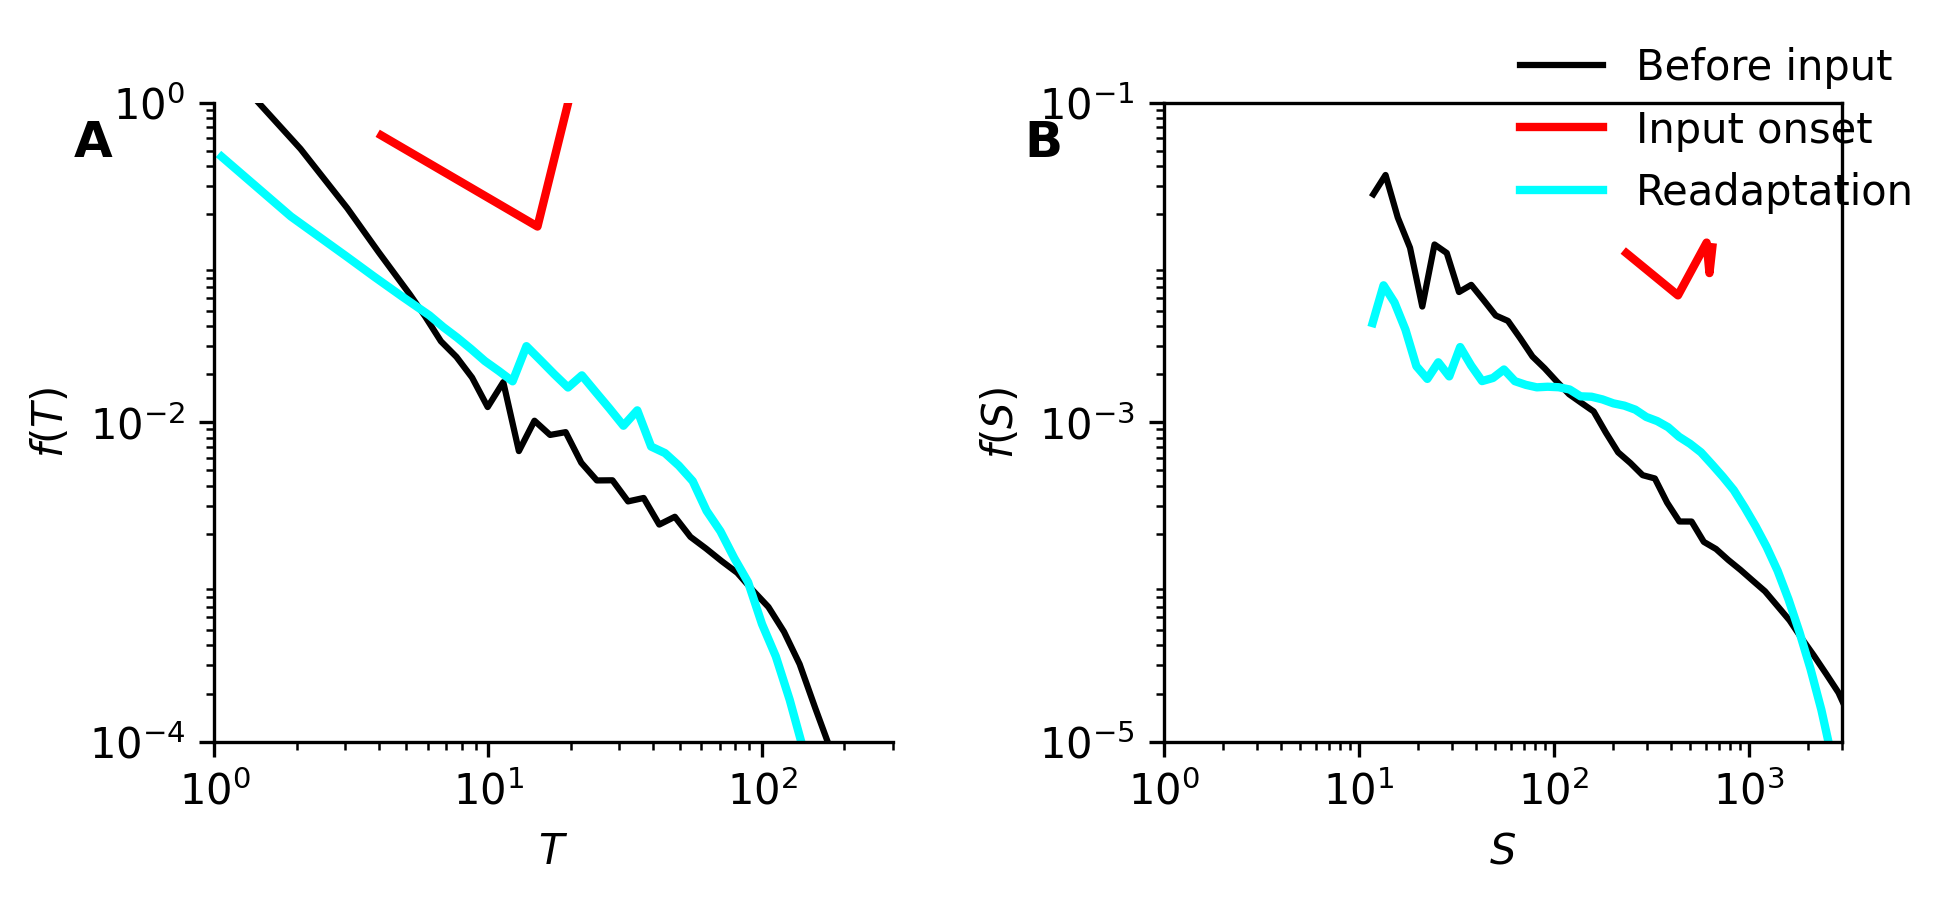
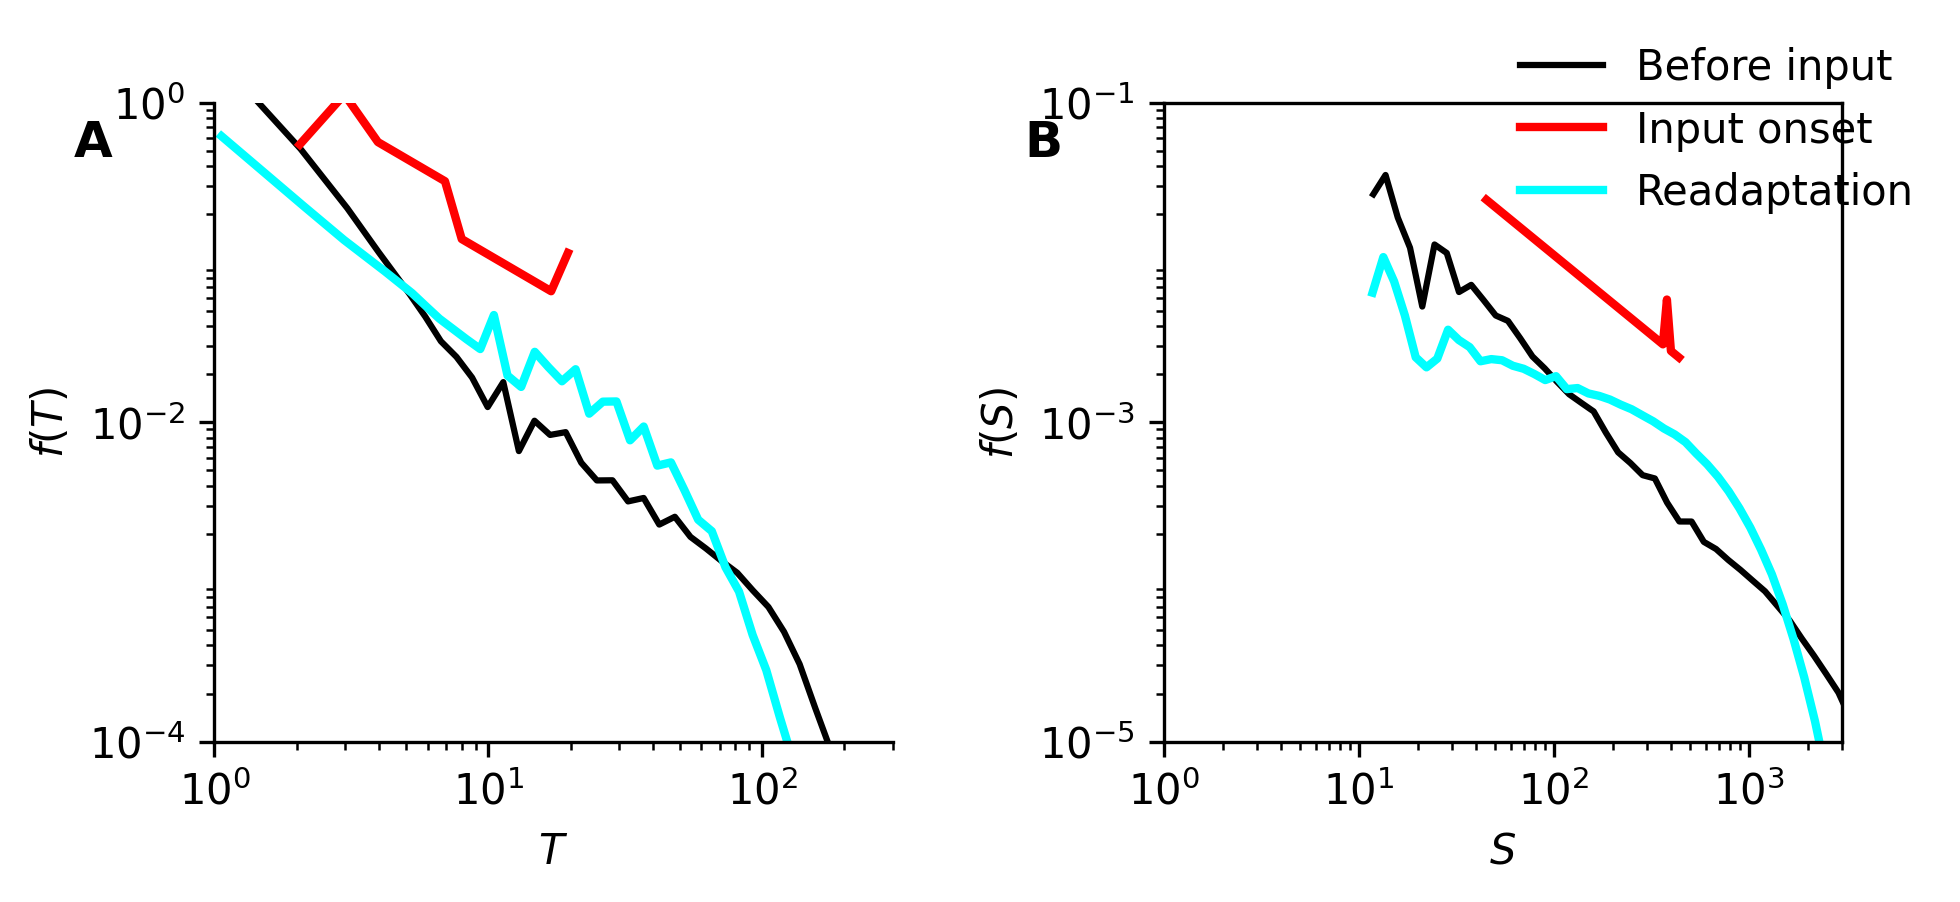
updated extra_input logic

diff --git a/delpapa/experiment_ExtraInputNew.py b/delpapa/experiment_ExtraInputNew.py
@@ -4,7 +4,7 @@ import utils
 utils.backup(__file__)
 
 from delpapa.plot import plot_results as plot_results_single
-from common.sources import NoSource
+from common.sources import CountingSource, NoSource  # Added CountingSource import
 from common.experiments import AbstractExperiment
 from common.sorn_stats import *
 
@@ -13,13 +13,13 @@ class Experiment_test(AbstractExperiment):
     def start(self):
         super(Experiment_test,self).start()
         c = self.params.c
-        # Use NoSource throughout - no external input
-        self.inputsource = NoSource()
+        # Start with NoSource
+        self.inputsource = NoSource(N_i=c.N_u_e)
         
         stats_single = [
             ActivityStat(),
-            SpikesStat(),              # Excitatory spikes
-            SpikesStat(inhibitory=True),  # Inhibitory spikes
+            SpikesStat(),              
+            SpikesStat(inhibitory=True),  # If you want inhibitory spikes
             ConnectionFractionStat(),
         ]
         
@@ -42,29 +42,33 @@ class Experiment_test(AbstractExperiment):
         print '\n\nNormal phase (before perturbation):'
         sorn.simulation(c.steps_noExternalInput)
         
-        print '\n\nPerturbation phase (increased noise):'
+        print '\n\nExternal Input on'
         
-        # Instead of external input, increase internal noise
-        # This is what creates the perturbation for Figure 6
-        old_noise_e = c.noise_sig_e
-        old_noise_i = c.noise_sig_i
+        # external input definition
+        word1 = "A"
+        word2 = "B"
+        word3 = "C"
+        word4 = "D"
+        word5 = "E"
+        word6 = "F"
+        word7 = "G"
+        word8 = "H"
+        word9 = "I"
+        word10 = "J"
+        words = [word1, word2, word3, word4, word5, word6, word7, \
+                word8, word9, word10]
+        # external input random transitions
+        words_len = len(words)  # This was missing!
+        words_trans = np.ones([words_len,words_len])*(1./words_len)
         
-        # Increase noise significantly
-        c.noise_sig_e = np.sqrt(0.2)  # Increased from sqrt(0.05)
-        c.noise_sig_i = np.sqrt(0.2)
-        
-        print("Increased noise levels:")
-        print("  E noise:", c.noise_sig_e)
-        print("  I noise:", c.noise_sig_i)
-        
-        # Run with increased noise
+        newsource = CountingSource(words, words_trans, \
+                                   c.N_u_e, c.N_u_i, avoid=False)
+        sorn.source = newsource
+        sorn.W_eu = newsource.generate_connection_e(c.N_e)
         sorn.simulation(c.steps_ExternalInput)
         
-        # Restore original noise (for any future use)
-        c.noise_sig_e = old_noise_e
-        c.noise_sig_i = old_noise_i
-        
-        return {'source':self.inputsource}
+        # Return sources to match original
+        return {'source_plastic':self.inputsource,'source_test':newsource}
     
     def plot_single(self,path,filename):
         plot_results_single(path,filename)

diff --git a/delpapa/param_ExtraInputNew.py b/delpapa/param_ExtraInputNew.py
@@ -34,10 +34,11 @@ c.W_ie = utils.Bunch(use_sparse=False,
                      avoid_self_connections=True)
 
 steps_each_phase = 2000000  # 2M steps per phase
-c.steps_transient = steps_each_phase      # Initial settling
-c.steps_noExternalInput = steps_each_phase # Normal activity (before perturbation)
-c.steps_ExternalInput = steps_each_phase   # Perturbation phase
-c.N_steps = c.steps_transient + c.steps_noExternalInput + c.steps_ExternalInput
+c.steps_transient = steps_each_phase           # Initial self-organization
+c.steps_noExternalInput = steps_each_phase     # Baseline measurement
+c.steps_ExternalInput = steps_each_phase       # Input onset + adaptation
+c.steps_stable_with_input = steps_each_phase   # New stable state with input
+c.N_steps = c.steps_transient + c.steps_noExternalInput + c.steps_ExternalInput + c.steps_stable_with_input
 
 c.eta_ip = 0.01
 c.h_ip = 0.1
@@ -47,7 +48,7 @@ c.noise_sig_e = np.sqrt(0.05)
 c.noise_sig_i = np.sqrt(0.05)
 
 c.input_gain = 1  # Input strength
-c.noise_fire = 0
+c.noise_fire = 100000000
 c.noise_fire_struc = 0
 
 c.stats.file_suffix = 'test'

diff --git a/common/avanalysis_only.py b/common/avanalysis_only.py
@@ -28,7 +28,7 @@ print("[INFO] Libraries imported successfully.")
 # ============================================
 # CONFIGURATION
 # ============================================
-base_dir = 'C:\\Users\\seaco\\OneDrive\\Documents\\Charles\\SORN_PC\\backup\\finegrain\\batch_hip0.1000_fp0.00_cde0.00_cdi0.00'
+base_dir = 'C:\\Users\\seaco\\OneDrive\\Documents\\Charles\\SORN_PC\\backup\\batch_ExtraInput_20250730_223904'
 starting_time_point = 3000000
 end_time_point = 6000000  # Set to None for full length
 

diff --git a/delpapa/avalanches/newFig6.py b/delpapa/avalanches/newFig6.py
@@ -104,7 +104,7 @@ def plot_power_law_pdf(data, ax, color='k', linewidth=1.5, label=None, bins=50):
 
 def main():
     # Specify the batch folder you want to analyze
-    batch_path = r"C:\Users\seaco\OneDrive\Documents\Charles\SORN_PC\backup\batch_ExtraInput_20250730_223904"
+    batch_path = r"C:\Users\seaco\OneDrive\Documents\Charles\SORN_PC\backup\batch_ExtraInput_20250731_234502"
     
     print(f"Analyzing batch: {os.path.basename(batch_path)}")
     print(f"Full path: {batch_path}")
